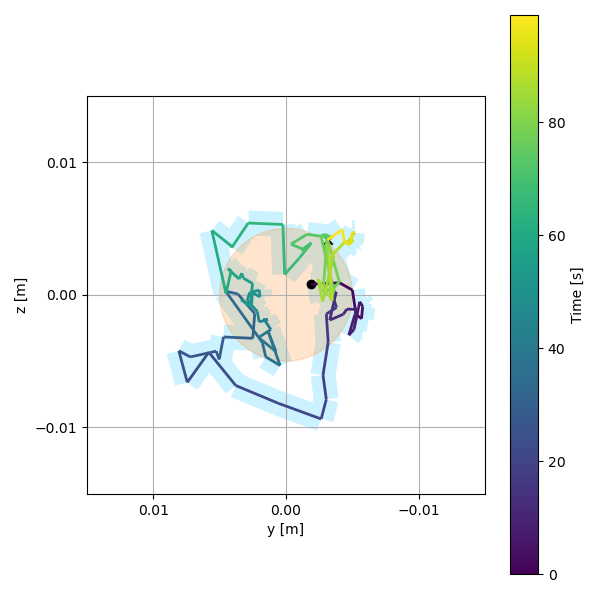
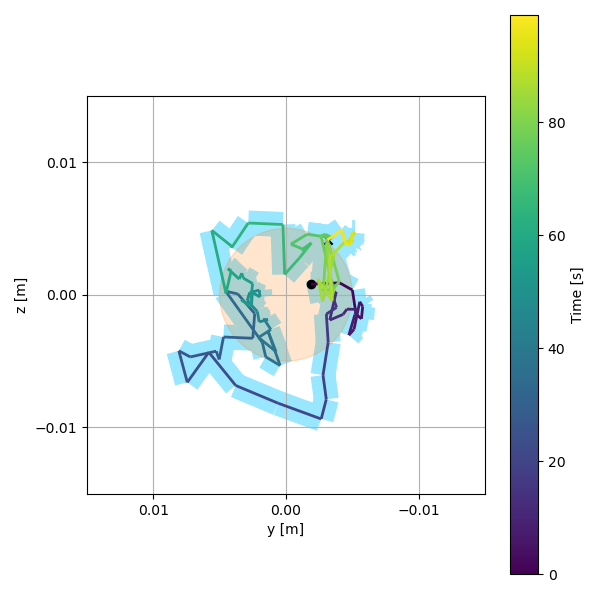
[scripts][figures] trajectory band color

Changed region(s): [[0.27, 0.33, 0.63, 0.72]]

diff --git a/scripts/draw_trajectory.py b/scripts/draw_trajectory.py
@@ -56,7 +56,7 @@ def draw_2D_trajectory(file_name, r, angled, axis, legend_flag, pitch, yz_range)
 
     # color map
     norm = plt.Normalize(time.min(), time.max())
-    lc_wide = LineCollection(segments, color=(0.8, 0.95, 1.0))
+    lc_wide = LineCollection(segments, color=(0.6, 0.9, 1.0))
     lc_wide.set_array(time)
     lc_wide.set_linewidth(18.0)
     lc_wide.set_alpha(1.0)
